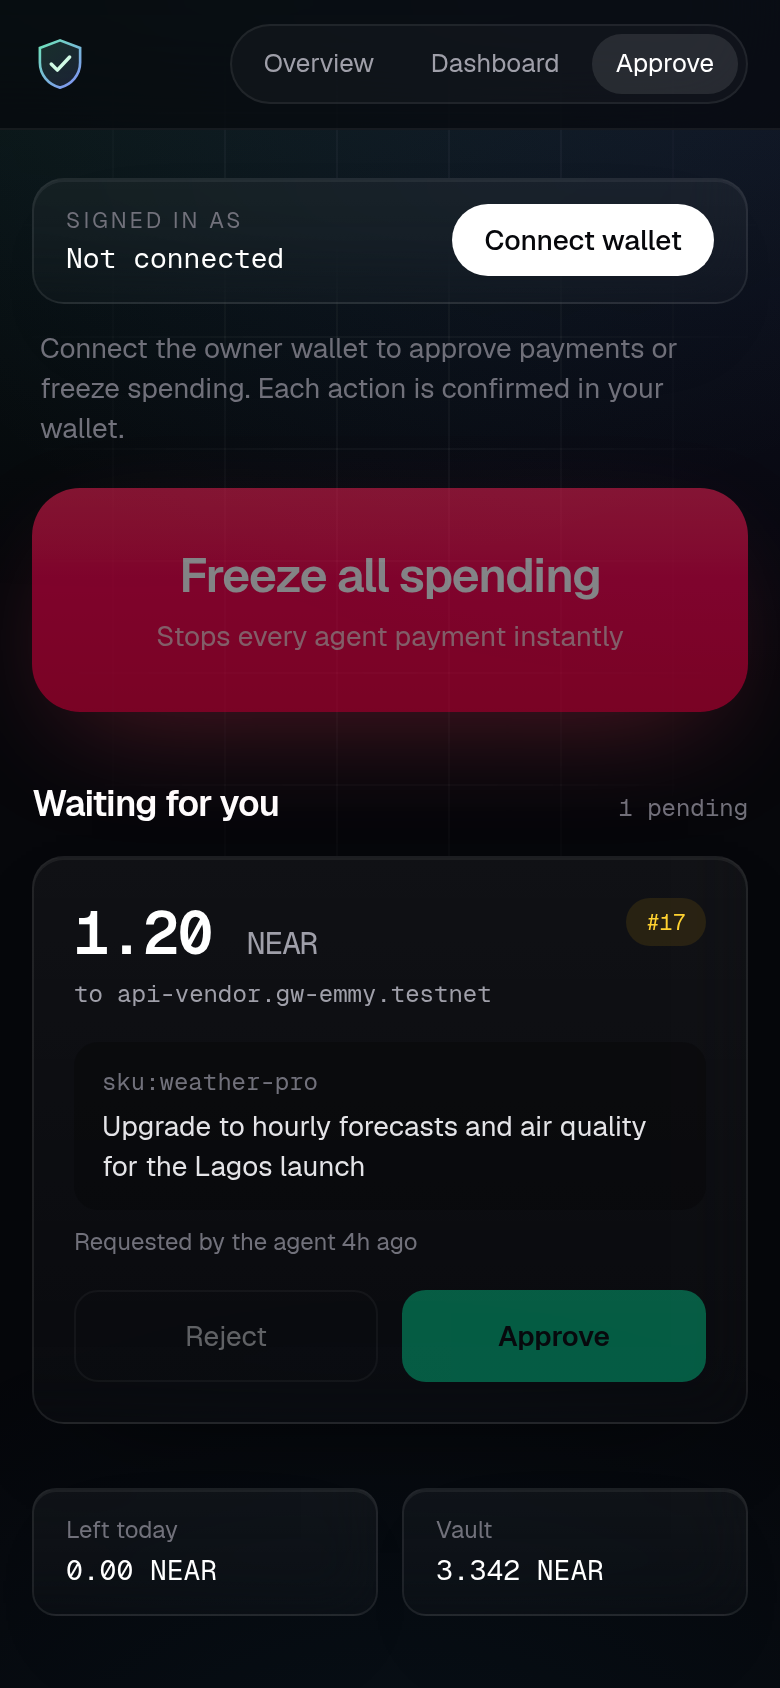
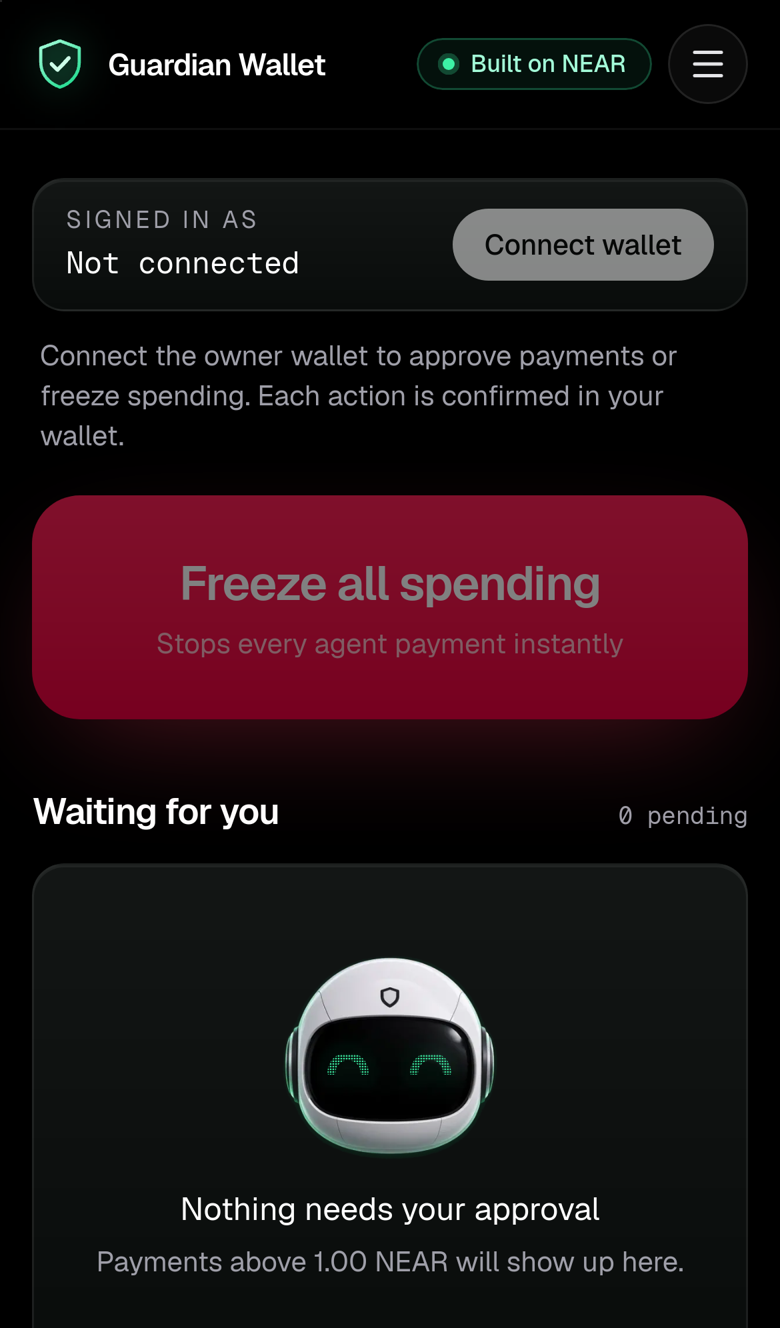
Refresh screenshots; one NEAR badge in the mobile menu

diff --git a/dashboard/src/components/site-header.tsx b/dashboard/src/components/site-header.tsx
@@ -65,7 +65,7 @@ function Header({ pathname }: { pathname: string | null }) {
         </nav>
 
         <div className="flex items-center gap-2">
-          <NearBadge className="hidden xl:inline-flex" />
+          <NearBadge className="max-[380px]:hidden" />
           <Link
             href="/chat"
             className="btn-brand hidden items-center gap-1.5 rounded-full px-4 py-2 text-sm font-semibold transition-shadow sm:inline-flex"
@@ -109,8 +109,7 @@ function Header({ pathname }: { pathname: string | null }) {
               </li>
             ))}
           </ul>
-          <div className="mt-3 flex items-center justify-between gap-3 px-1">
-            <NearBadge />
+          <div className="mt-3 flex items-center justify-end gap-3 px-1">
             <Link
               href="/chat"
               onClick={() => setOpenOn(false)}
